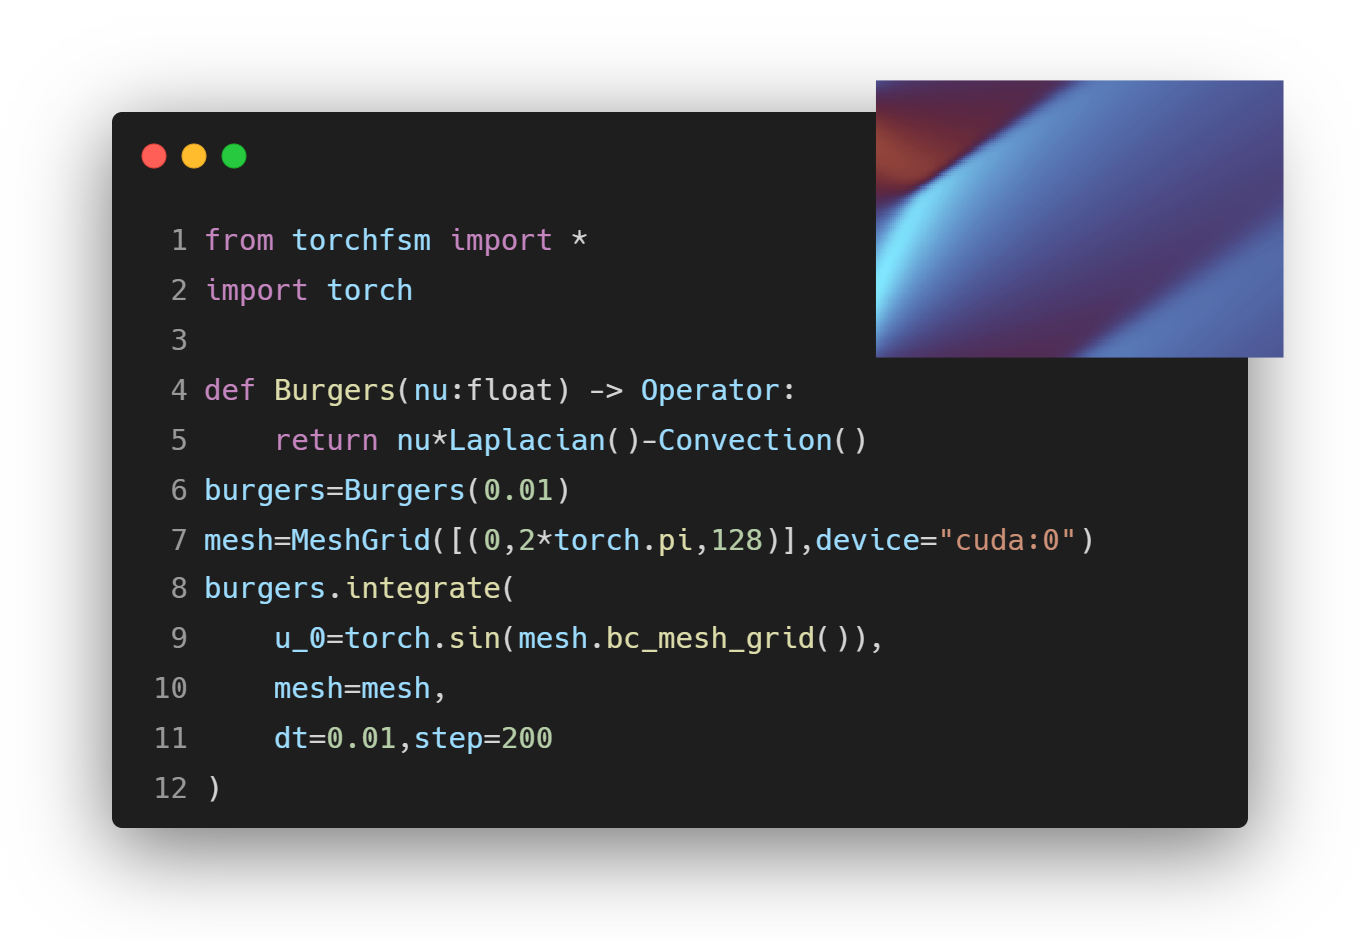
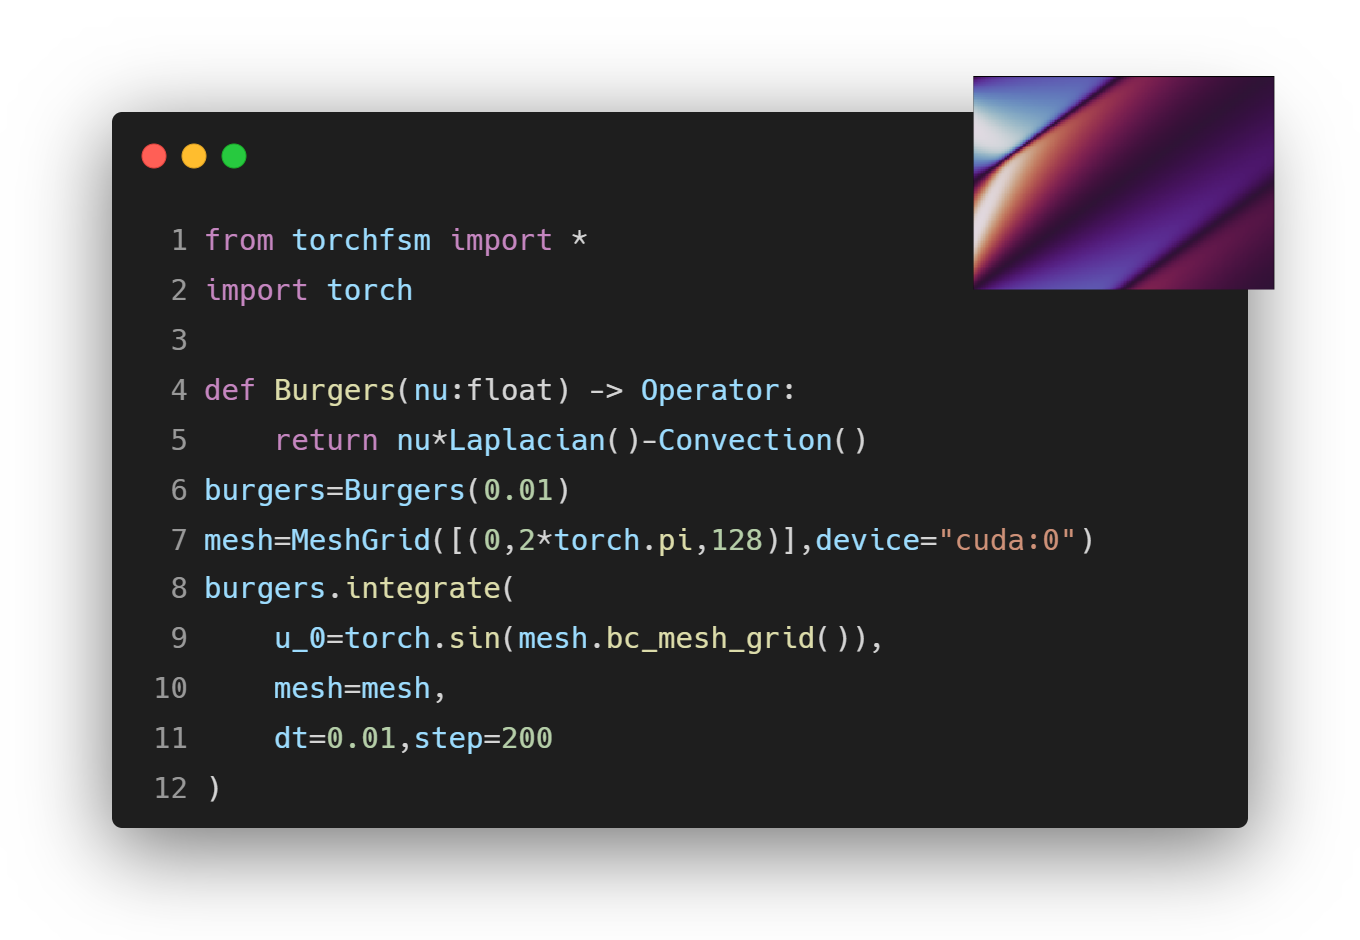
update document webpage

Changed region(s): [[0.6176, 0.0617, 0.9574, 0.4011]]

diff --git a/docs/apis/utils.md b/docs/apis/utils.md
@@ -1,24 +1,23 @@
-::: torchfsm.tool.utils.default
+::: torchfsm.utils.clean_up_memory
 ---
-::: torchfsm.tool.utils.format_device_dtype
+::: torchfsm.utils.print_gpu_memory
 ---
-::: torchfsm.utils.traj_manipulate.statistics_traj
+::: torchfsm.utils.statistics_traj
 ---
 ::: torchfsm.utils.randomly_clip_traj
 ---
-::: torchfsm.utils.traj_manipulate.randomly_select_frames
+::: torchfsm.utils.randomly_select_frames
 ---
-::: torchfsm.utils.traj_manipulate.uniformly_select_frames
+::: torchfsm.utils.uniformly_select_frames
 ---
-::: torchfsm.utils.slice.traj_slices
+::: torchfsm.utils.default
 ---
-::: torchfsm.utils.slice.field_slices
+::: torchfsm.utils.format_device_dtype
 ---
-::: torchfsm.utils.memory.clean_up_memory
+::: torchfsm.utils.traj_slices
 ---
-::: torchfsm.utils.memory.print_gpu_memory
+::: torchfsm.utils.field_slices
 ---
-::: torchfsm.utils.spectrum.collect_energy_spectrum
+::: torchfsm.utils.test_sim_dt
 ---
-::: torchfsm.utils.test.test_sim_dt
----
+::: torchfsm.utils.collect_energy_spectrum

diff --git a/README.md b/README.md
@@ -51,7 +51,7 @@ traj=burgers.integrate(u_0=u_0,mesh=mesh,
     dt=0.01,step=200,
     trajectory_recorder=AutoRecorder(),
 )
-plot_traj(traj,animation=False,cmap="managua")
+plot_traj(traj,animation=False)
 ```
 ![Burgers 1D](./docs/assets/pics/readme/burgers_1d.png)
 
@@ -68,7 +68,7 @@ traj=burgers.integrate(u_0=u_0,mesh=mesh,
     trajectory_recorder=AutoRecorder(),
 )
 
-plot_traj(traj,animation=False,cmap="managua")
+plot_traj(traj,animation=False)
 ```
 ![Burgers 1D](./docs/assets/pics/readme/burgers_2d.png)
 ## Feature

diff --git a/docs/tutorials/introduction.md b/docs/tutorials/introduction.md
@@ -47,7 +47,7 @@ traj=burgers.integrate(u_0=u_0,mesh=mesh,
     dt=0.01,step=200,
     trajectory_recorder=AutoRecorder(),
 )
-plot_traj(traj,animation=False,cmap="managua")
+plot_traj(traj,animation=False)
 ```
 ![Burgers 1D](../../assets/pics/readme/burgers_1d.png)
 
@@ -64,7 +64,7 @@ traj=burgers.integrate(u_0=u_0,mesh=mesh,
     trajectory_recorder=AutoRecorder(),
 )
 
-plot_traj(traj,animation=False,cmap="managua")
+plot_traj(traj,animation=False)
 ```
 ![Burgers 1D](../../assets/pics/readme/burgers_2d.png)
 ## Feature

diff --git a/docs/apis/plot.md b/docs/apis/plot.md
@@ -8,6 +8,10 @@
 ---
 ::: torchfsm.plot.plot_field
 ---
-::: torchfsm.plot.plot_traj_frames
+::: torchfsm.plot.plot_traj_frame
 ---
-::: torchfsm.plot.plot_3d_traj_slices
+::: torchfsm.plot.plot_traj_slice
+---
+::: torchfsm.plot.plot_traj_frame_slice
+---
+::: torchfsm.plot.plot_field_slice
